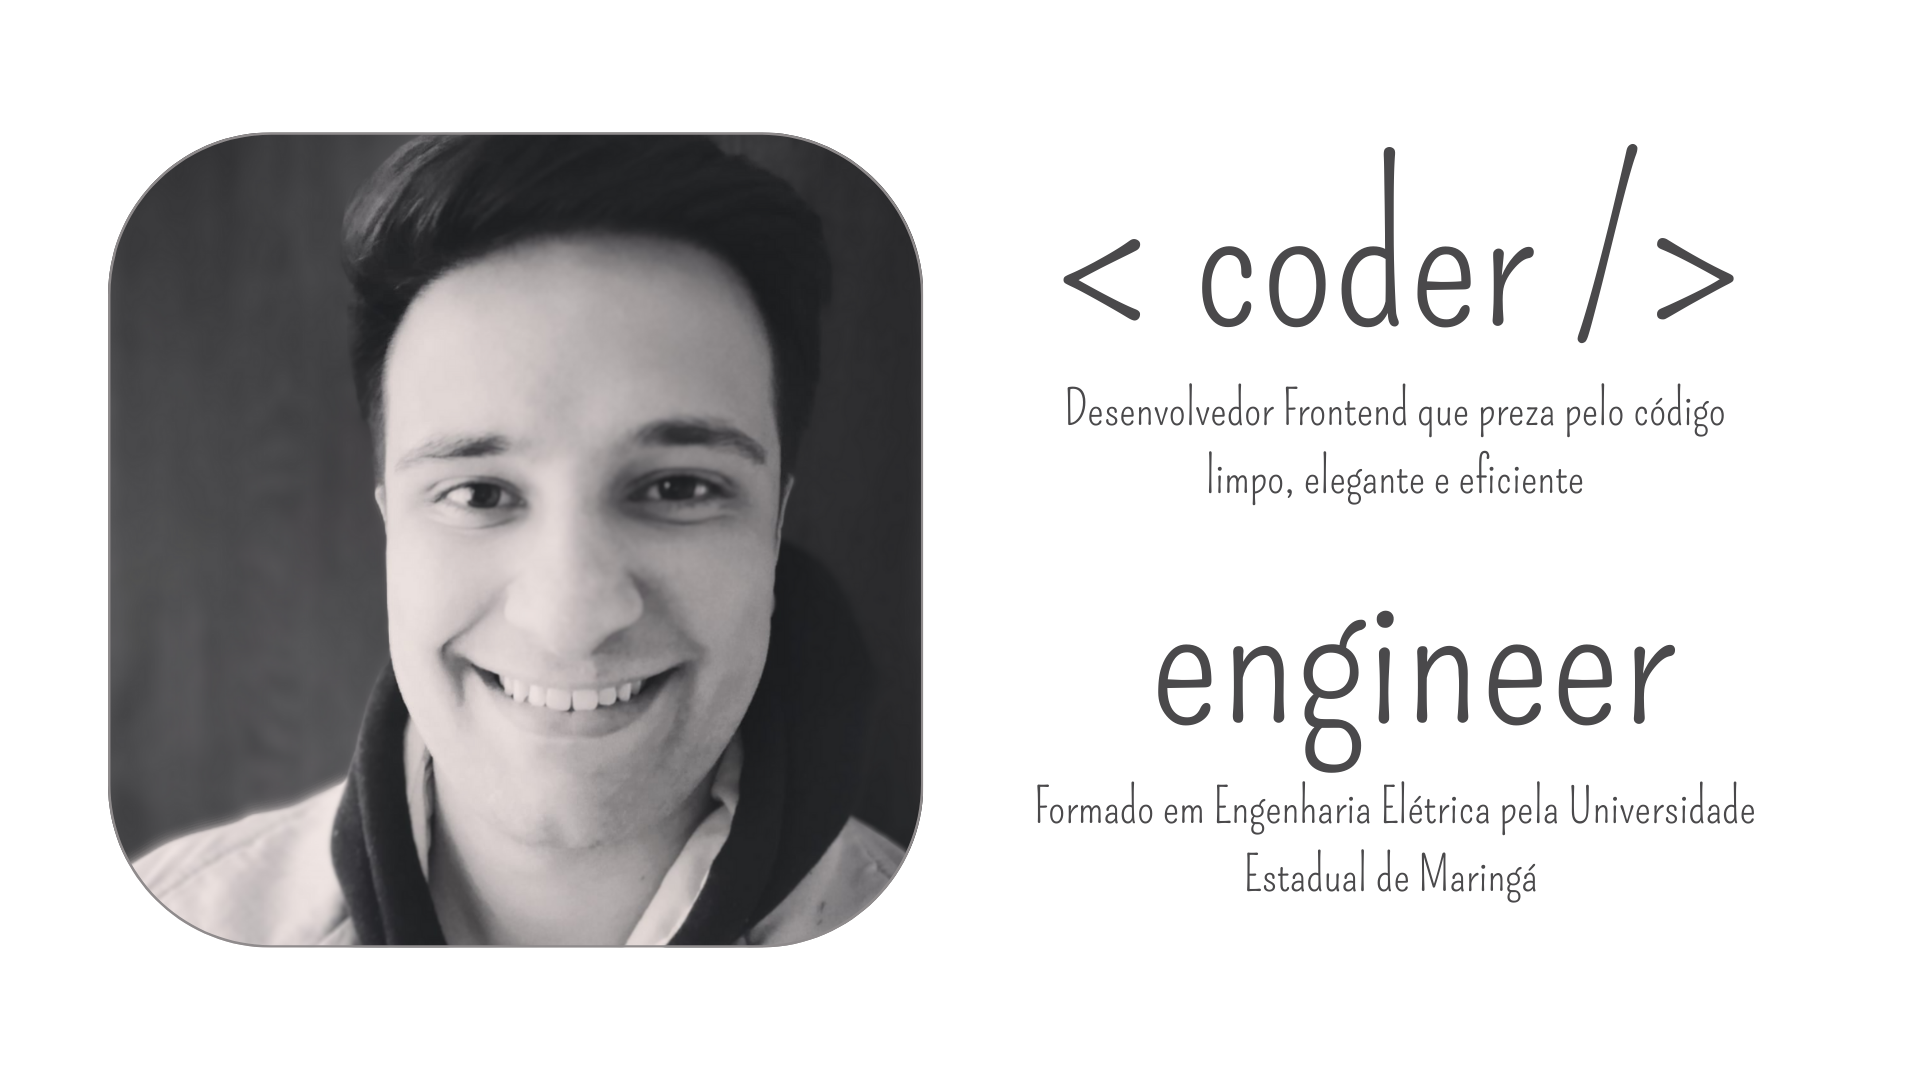
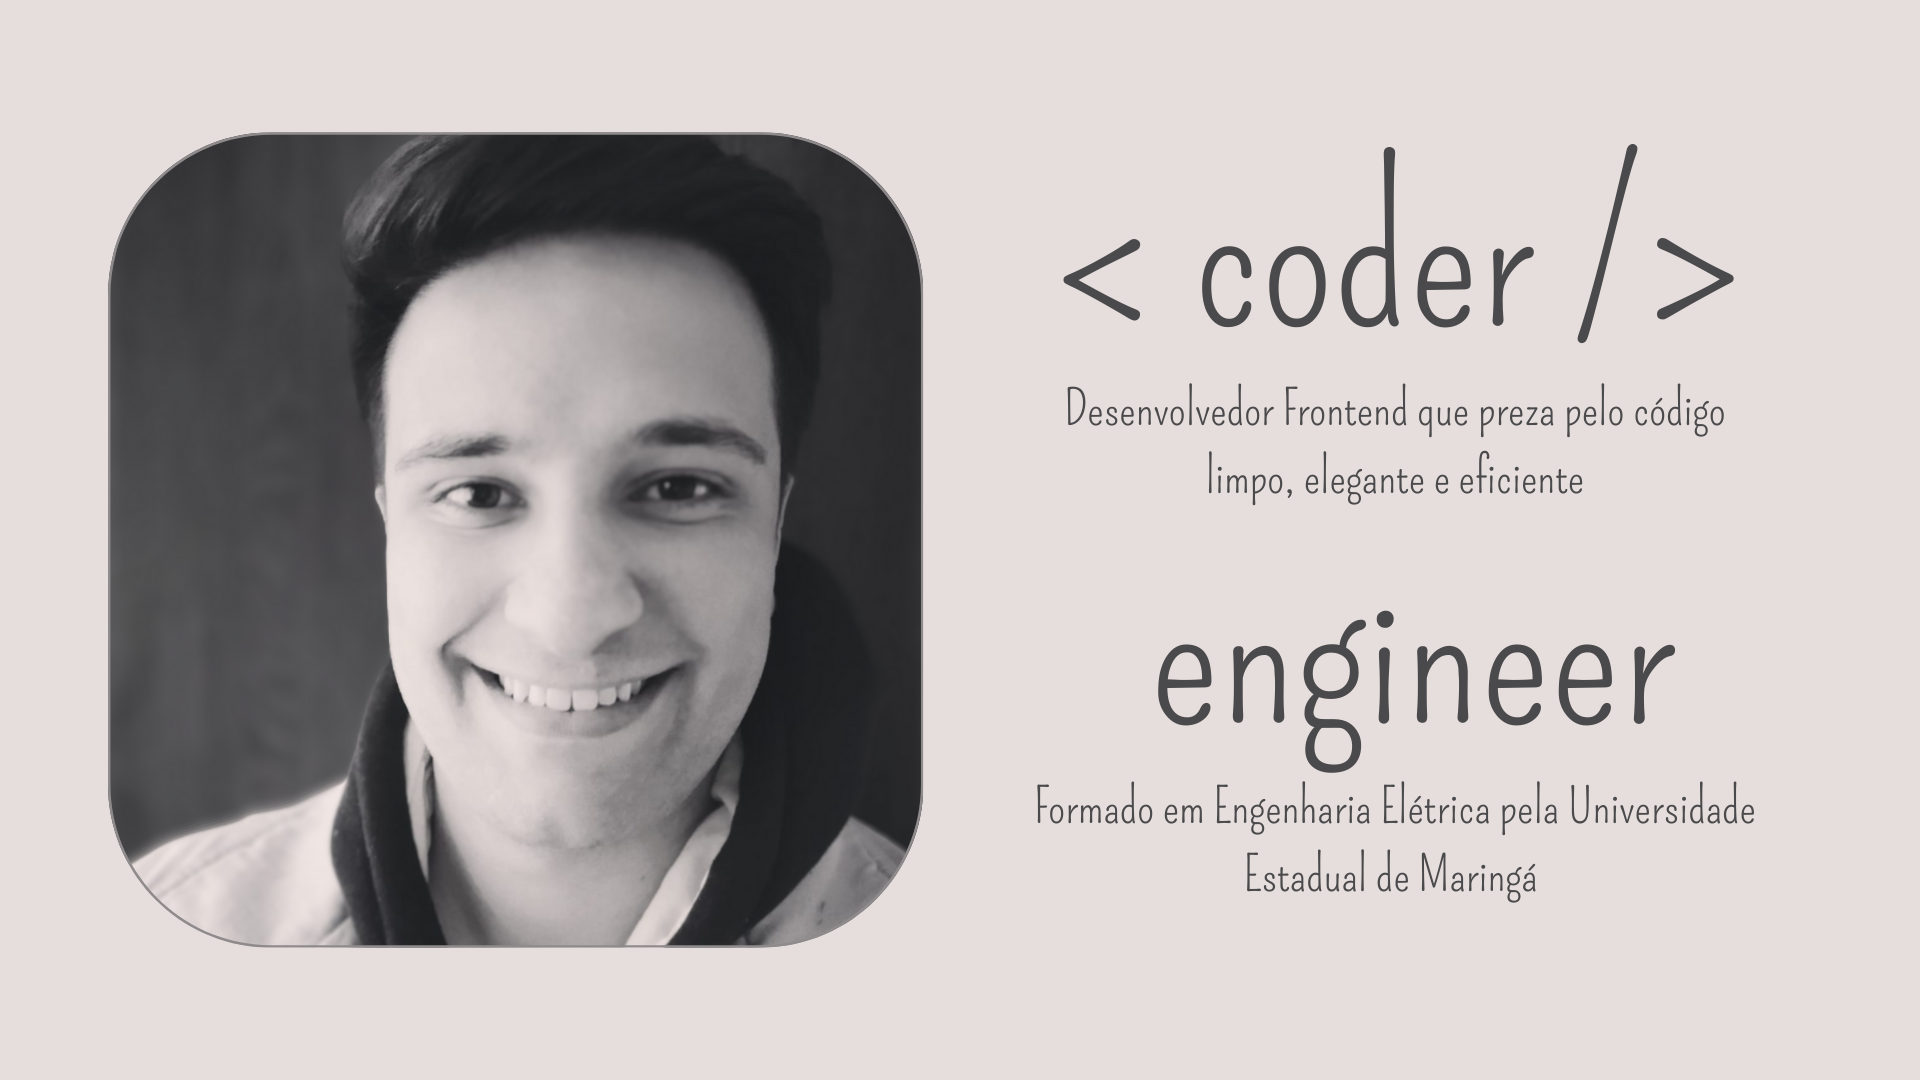
Partial completion of Home BR

diff --git a/personal-portfolium/src/App.css b/personal-portfolium/src/App.css
@@ -1,38 +1,3 @@
-.App {
-  text-align: center;
-}
-
-.App-logo {
-  height: 40vmin;
-  pointer-events: none;
-}
-
-@media (prefers-reduced-motion: no-preference) {
-  .App-logo {
-    animation: App-logo-spin infinite 20s linear;
-  }
-}
-
-.App-header {
-  background-color: #282c34;
-  min-height: 100vh;
-  display: flex;
-  flex-direction: column;
-  align-items: center;
-  justify-content: center;
-  font-size: calc(10px + 2vmin);
-  color: white;
-}
-
-.App-link {
-  color: #61dafb;
-}
-
-@keyframes App-logo-spin {
-  from {
-    transform: rotate(0deg);
-  }
-  to {
-    transform: rotate(360deg);
-  }
+body {
+  background-color: #e6dedc;
 }

diff --git a/personal-portfolium/src/components/PT-BR/HeaderPT/HeaderPT.css b/personal-portfolium/src/components/PT-BR/HeaderPT/HeaderPT.css
@@ -1,5 +1,8 @@
+@import url('https://fonts.googleapis.com/css2?family=Pompiere&display=swap');
+
+
 .main-content {
-  background-color: #7aa5c4;
+  background-color: #4a494b;
   color: #e6dedc;
   display: flex;
   flex-wrap: nowrap;
@@ -18,5 +21,7 @@
 a:-webkit-any-link { /* Referente ao link */
   color: #e6dedc;
   cursor: pointer;
+  font-family: 'Pompiere', cursive;
+  font-size: xx-large;
   text-decoration: none;
 }

diff --git a/personal-portfolium/src/App.js b/personal-portfolium/src/App.js
@@ -5,6 +5,7 @@ import AboutPT from './pages/PT-BR/AboutPT';
 import ContactPT from './pages/PT-BR/ContactPT'
 import Portfolio from './pages/PT-BR/Portfolio';
 import KnowlegesPT from './pages/PT-BR/KnowledgePT';
+import './App.css'
 
 function App() {
   return (
